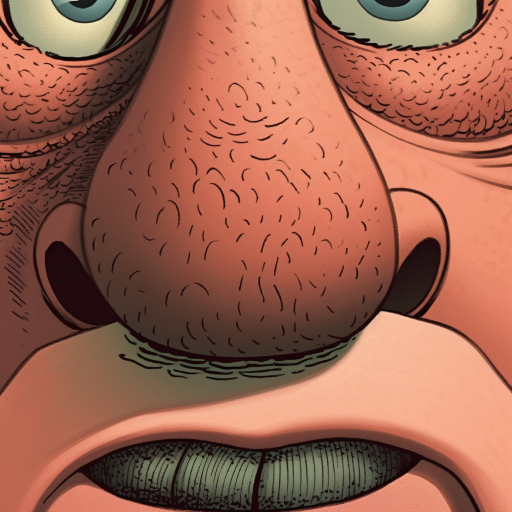
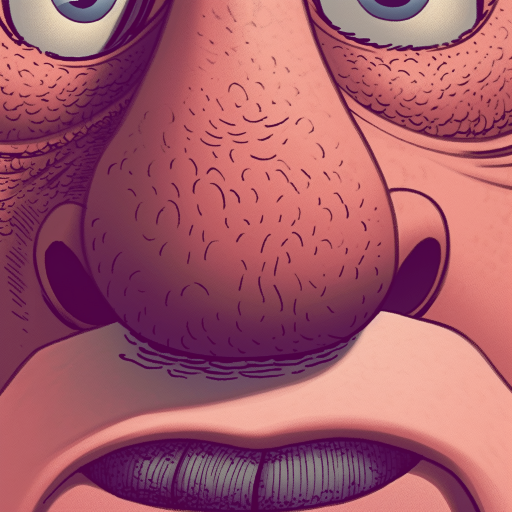
Added snot image and adjusted sniffer colors

diff --git a/script.js b/script.js
@@ -60,6 +60,10 @@ playerImage.src = 'graphics/zipBagEmpty.png';
 const drugCounterBoxImage = new Image();
 drugCounterBoxImage.src = 'graphics/zipBagFull.png';
 
+// Load snot image
+const snotImage = new Image();
+snotImage.src = 'graphics/snot.png';
+
 function setCanvasDimensions() {
     canvas.width = window.innerWidth;
     canvas.height = window.innerHeight;
@@ -296,11 +300,20 @@ class Snot {
     constructor(x, y) {
         this.x = x;
         this.y = y;
-        this.width = 20;
-        this.height = 30;
+        this.width = 40;
+        this.height = 60;
         this.speed = 0.5;
         this.color = 'green';
+        this.image = snotImage;
+        this.opacity = 0.8;
     }
+    
+    // draw() {
+    //     ctx.globalAlpha = this.opacity; // Set the globalAlpha to the snot's opacity
+    //     ctx.drawImage(snotImage, this.x, this.y, this.width, this.height);
+    //     ctx.globalAlpha = 0.1; // Reset the globalAlpha to fully opaque
+    // }
+    
 }
 function spawnSnot() {
     let closestNose = null;
@@ -647,7 +660,7 @@ function allNosesDestroyed() {
 
 function showWinScreen() {
     ctx.fillStyle = "white";
-    ctx.font = "48px sans-serif";
+    ctx.font = "68px sans-serif";
     ctx.fillText("You Win!", canvas.width / 2 - 100, canvas.height / 2 - 50);
     // console.log("Switched to WIN_SCREEN");
 }
@@ -710,8 +723,11 @@ function draw() {
                 // Draw snots
                 ctx.fillStyle = 'green';
                 for (const snot of snots) {
-                    ctx.fillRect(snot.x, snot.y, snot.width, snot.height);
+                    // ctx.fillRect(snot.x, snot.y, snot.width, snot.height);
+                    ctx.globalAlpha = snot.opacity;
+                    ctx.drawImage(snot.image, snot.x, snot.y, snot.width, snot.height);
                 }
+                ctx.globalAlpha = 1;
 
             }// Add this line to draw the projectile counter box
             break;
